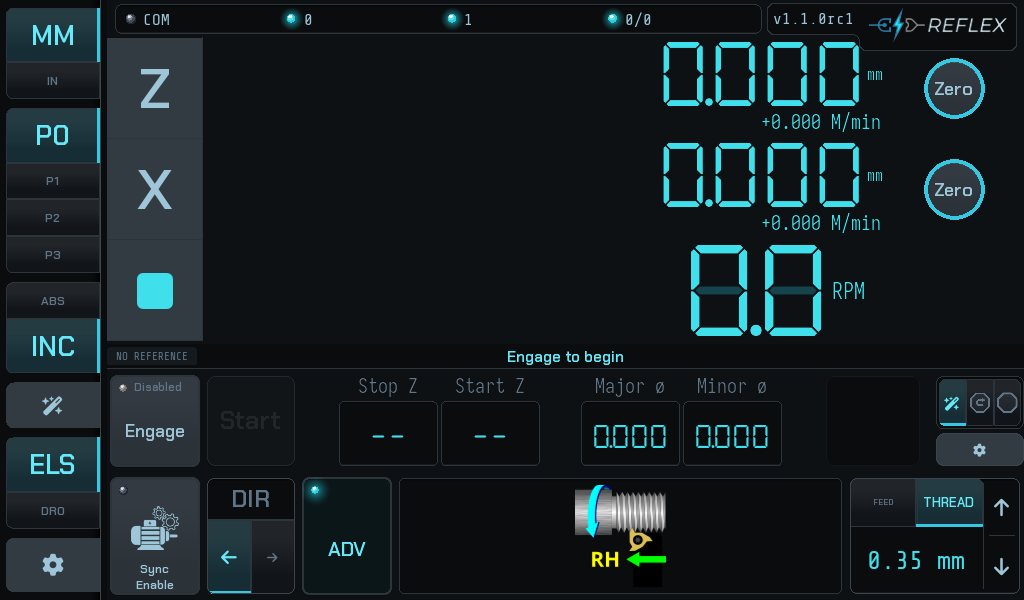
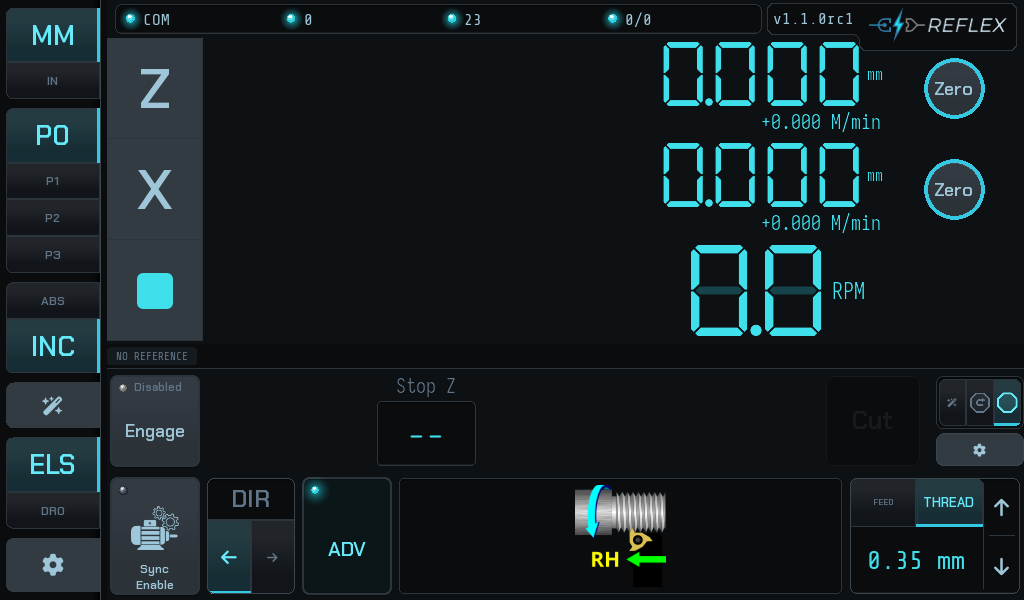
docs(readme): stop-only is the headline, and a walkthrough for each mode
Gate 2 item one. Every screenshot the project has shipped showed WIZARD
mode -- capture_readme_screenshots.py never set the mode flags and
enable_wizard defaults True -- while the machine this is developed on
runs stop-only. Stop-only is now the headline pair, and the other two
modes get sections instead of being the accidental default.

The caption under those images said they were "regenerated by CI, so
they reflect the current UI". No workflow has ever referenced that
script. The one sentence telling a reader the images were trustworthy is
why nobody checked them; it is gone, replaced by a note in the script
saying it must be run by hand.

The capture script now writes nine frames -- the stop-only pair in both
themes, stop+retract, and one per wizard step -- driven through the real
UI FSM triggers so every prompt and button label comes from UI_POLICY
rather than being typed into the README.

THE FIRST RUN OF THE WIZARD WALK WAS WRONG IN A WAY THE ASSERTIONS DID
NOT CATCH. The FSM walked its six states correctly and the action button
followed (Set/Set/Set/Set/Confirm/Cut), so every frame looked right --
but all six carried the instruction "Engage to begin", because
_apply_policy replaces a state's own prompt while the domain FSM is
disengaged (ui_controller.py:1004). The wizard's six actual prompts, the
entire content of the sequence, never appeared. The script now asserts
the rendered instruction against UI_POLICY, which is the check that
[…]

diff --git a/ui/scripts/capture_readme_screenshots.py b/ui/scripts/capture_readme_screenshots.py
@@ -1,22 +1,34 @@
-"""Capture README screenshots of the home screen in ELS mode (advanced bar
-expanded) for each UI theme, with no hardware connected.
+"""Capture the README's screenshots: the home screen in each operator mode,
+and a frame per step of the wizard.
 
-Renders at the fixed target-hardware resolution (1024x600) and writes one PNG
-per theme, composited over THAT THEME'S background colour (``export_to_png``
-produces a transparent background because it exports the root widget, not the
-Window -- and the app's backdrop lives on ``Window.canvas.before``, so it is
-never in the export).
+STOP-ONLY IS THE HEADLINE, and getting that wrong is why this file was
+rewritten on 2026-08-30. `ElsAdvancedBar.enable_wizard` and `enable_retract`
+both default True, this script never set them, and so every screenshot the
+project has ever shipped showed WIZARD mode -- complete with a Start button,
+Start Z / Major o / Minor o fields and an "Engage to begin" instruction that
+the machine's own operator never sees. Every preview harness under previews/
+deliberately switches to stop-only and says why; the one script whose output
+is the project's public face did not.
 
-Run locally:
-    DISPLAY=:0 SDL_AUDIODRIVER=dummy uv run python scripts/capture_readme_screenshots.py
+Renders at the fixed target-hardware resolution (1024x600) and composites each
+PNG over THAT THEME'S background colour (``export_to_png`` produces a
+transparent background because it exports the root widget, not the Window --
+and the app's backdrop lives on ``Window.canvas.before``, so it is never in the
+export).
 
-Headless (as CI does):
-    xvfb-run -a -s "-screen 0 1024x600x24" SDL_AUDIODRIVER=dummy \
-        uv run python scripts/capture_readme_screenshots.py
+Run (WSL):
+    cd ui && OUT_DIR=docs/screenshots SDL_AUDIODRIVER=dummy KIVY_NO_ARGS=1 \
+        xvfb-run -a -s "-screen 0 1024x600x24" \
+        ./.venv/bin/python scripts/capture_readme_screenshots.py
+
+NOTHING REGENERATES THESE AUTOMATICALLY. The README claimed CI did until
+2026-08-30; no workflow has ever referenced this script. Run it by hand after
+a UI change that alters the home screen, and commit what it writes.
 
 Output files (in OUT_DIR, default current directory):
-    home_els_light.png
-    home_els_dark.png
+    home_els_dark.png / home_els_light.png    stop-only -- the headline pair
+    home_els_stopretract.png                  stop + retract
+    wizard_1_stop_z.png ... wizard_6_ready.png  one frame per wizard step
 """
 import os
 import tempfile
@@ -49,12 +61,17 @@ from kivy.clock import Clock  # noqa: E402
 from PIL import Image  # noqa: E402
 
 from reflex.app import MainApp  # noqa: E402
+from reflex.fsms.ui_controller import UI_POLICY  # noqa: E402
 
 OUT_DIR = os.environ.get("OUT_DIR", ".")
 THEMES = ("light", "dark")
 MODE_ELS = 2
 AXIS_NAMES = ("Z", "X", "S")  # representative lathe axes (S = spindle) for the showcase
 IDLE_TICKS = 6  # frames to flush before each export (texture/colors must settle)
+TARGET_SIZE = [1024, 600]
+
+FAILED = []
+WROTE = []
 
 app = MainApp()
 
@@ -78,23 +95,156 @@ def _composite_over_theme_bg(path, rgba):
     Image.alpha_composite(bg, img).convert("RGB").save(path)
 
 
+def _settle():
+    for _ in range(IDLE_TICKS):
+        EventLoop.idle()
+
+
+def _bar():
+    return app.manager.get_screen("home").els_bar.ids.get("advanced_bar") \
+        or _find(lambda w: type(w).__name__ == "ElsAdvancedBar")
+
+
+def _find(pred, root=None):
+    root = root or app.root
+    if pred(root):
+        return root
+    for child in root.children:
+        got = _find(pred, child)
+        if got is not None:
+            return got
+    return None
+
+
+def _shot(name):
+    out = os.path.join(OUT_DIR, f"{name}.png")
+    _settle()
+    # First export under-renders (only one tile); export twice.
+    app.root.export_to_png(out)
+    app.root.export_to_png(out)
+    assert list(app.root.size) == TARGET_SIZE, (
+        f"{name}: rendered at {list(app.root.size)}, not the machine's "
+        f"{TARGET_SIZE}")
+    _composite_over_theme_bg(out, app.theme.background)
+    WROTE.append(out)
+    print("WROTE", out)
+
+
+def _set_mode(bar, wizard, retract):
+    """Set an operator mode and DEMAND that it took.
+
+    The flags propagate to ElsUiController through ElsAdvancedBar's setters, so
+    a silently-ignored write here would mislabel every frame below -- which is
+    exactly what happened to previews/preview_takeup_banner.py, whose
+    stop-only pair was captured in wizard mode for as long as it existed.
+    """
+    bar.enable_wizard = wizard
+    bar.enable_retract = retract
+    _settle()
+    uic = app.els_uic
+    assert bar.enable_wizard is wizard and bar.enable_retract is retract, (
+        f"bar did not take wizard={wizard} retract={retract}")
+    assert uic.wizard_enabled is wizard and uic.retract_enabled is retract, (
+        f"the controller disagrees with the bar: wizard="
+        f"{uic.wizard_enabled} retract={uic.retract_enabled}")
+    print(f"  mode: wizard={wizard} retract={retract} "
+          f"(bar h={round(bar.height)})")
+
+
+# One frame per wizard step. The captions are not written here: the third
+# element is the UI_STATE_POLICY state whose OWN instruction_text is asserted
+# against the screen, so the README cannot describe a step the app does not.
+WIZARD_STEPS = [
+    ("wizard_1_stop_z",     "set_stop_z",     "stop_z_valid"),
+    ("wizard_2_retract_z",  "set_retract_z",  "retract_z_valid"),
+    ("wizard_3_start_dia",  "set_start_dia",  "start_dia_valid"),
+    ("wizard_4_stop_dia",   "set_stop_dia",   "stop_dia_valid"),
+    ("wizard_5_confirm",    "confirm",        None),
+    ("wizard_6_ready",      "in_cycle.waiting_to_cut", None),
+]
+
+
+def _capture_wizard(bar):
+    """Walk the wizard and photograph each step.
+
+    Driven through the real UI FSM triggers, with each step's validity flag set
+    the way committing a value would set it -- so the instruction text and the
+    action button in every frame are produced by production code rather than
+    posed.
+    """
+    uic = app.els_uic
+    _set_mode(bar, wizard=True, retract=True)
+
+    # ENGAGED, or every frame says "Engage to begin". _apply_policy overrides
+    # the state's own instruction text while the domain FSM is disabled
+    # (ui_controller.py:1004), so without this the six frames below carry six
+    # copies of one sentence -- the wizard's actual prompts, the whole point of
+    # the sequence, never appear. Caught by reading the captured text, not the
+    # captured state: the ACTION BUTTON followed the FSM correctly the whole
+    # time, so the frames looked like they were working.
+    uic.engaged = True
+
+    fsm = uic._ui_fsm
+    fsm.start()
+    _settle()
+
+    for name, want_state, gate in WIZARD_STEPS:
+        assert fsm.state == want_state, (
+            f"{name}: wizard is in {fsm.state!r}, not {want_state!r} -- the "
+            f"frame would carry another step's instruction under this "
+            f"filename")
+        # THE STATE IS NOT THE SCREEN. _apply_policy can replace a state's
+        # instruction with a global one (not engaged, alarm), and it did:
+        # every frame in the first run of this sequence read "Engage to
+        # begin" while the FSM walked the six states correctly underneath.
+        want_text = UI_POLICY[want_state]["instruction_text"]
+        assert uic.instruction_text == want_text, (
+            f"{name}: screen reads {uic.instruction_text!r}, but "
+            f"{want_state!r} prompts {want_text!r}. Something is overriding "
+            f"the step's own instruction and this frame does not show the "
+            f"wizard.")
+        print(f"  [{want_state}] button={uic.action_button_text!r} "
+              f"instruction={uic.instruction_text!r}")
+        _shot(name)
+        if gate is not None:
+            # What committing the value does. Set here rather than driven
+            # through the axis so the walk does not depend on fabricated
+            # scale positions.
+            setattr(uic, gate, True)
+        if want_state != WIZARD_STEPS[-1][1]:
+            fsm.action()
+            _settle()
+
+
 def _capture(_dt):
     os.makedirs(OUT_DIR, exist_ok=True)
     try:
+        bar = _bar()
+        assert bar is not None, (
+            "ElsAdvancedBar is not mounted; every mode below would be "
+            "whatever a fresh config booted into. Raise the delay.")
+
+        # ── The headline pair: STOP-ONLY, the mode the machine is run in.
+        _set_mode(bar, wizard=False, retract=False)
         for theme in THEMES:
             app.formats.theme = theme
-            out = os.path.join(OUT_DIR, f"home_els_{theme}.png")
-            for _ in range(IDLE_TICKS):
-                EventLoop.idle()
-            # First export under-renders (only one tile); export twice.
-            app.root.export_to_png(out)
-            app.root.export_to_png(out)
-            _composite_over_theme_bg(out, app.theme.background)
-            print("WROTE", out, "root size", app.root.size)
+            _settle()
+            _shot(f"home_els_{theme}")
+
+        # ── Stop + retract, and the wizard walk. Dark only: these illustrate
+        # controls and workflow, and a second theme of each would double the
+        # README's images without adding anything.
+        app.formats.theme = "dark"
+        _settle()
+        _set_mode(bar, wizard=False, retract=True)
+        _shot("home_els_stopretract")
+
+        _capture_wizard(bar)
     except Exception as e:  # noqa: BLE001 - capture script, want the full traceback
         import traceback
         traceback.print_exc()
         print("CAPTURE FAILED", e)
+        FAILED.append(e)
     app.stop()
 
 
@@ -117,9 +267,23 @@ def _arm(_dt):
     app.set_mode(MODE_ELS)
     app.manager.get_screen("home").els_bar.enable_advanced = True
     # Mode swap is deferred via Clock (see HomePage.change_mode); give it time
-    # for the ELS layout to mount before capturing.
+    # for the ELS layout to mount before capturing. The modes themselves are
+    # set INSIDE _capture, after the bar exists -- setting them here would be
+    # silently dropped, which is the bug that made preview_takeup_banner.py
+    # photograph the wrong mode for its whole life.
     Clock.schedule_once(_capture, 1.5)
 
 
 Clock.schedule_once(_arm, 2.0)
 app.run()
+
+# A CAPTURE SCRIPT THAT WRITES FILES AND EXITS 0 IS NOT EVIDENCE IT WORKED.
+# The except above exists so the traceback survives Kivy's clock; it must not
+# also swallow the exit code.
+if FAILED:
+    raise SystemExit(f"capture_readme_screenshots failed: {FAILED[0]!r}")
+if len(WROTE) != 2 + 1 + len(WIZARD_STEPS):
+    raise SystemExit(
+        f"wrote {len(WROTE)} images, expected {2 + 1 + len(WIZARD_STEPS)}: "
+        f"{[os.path.basename(w) for w in WROTE]}")
+print(f"OK: {len(WROTE)} images")

diff --git a/README.md b/README.md
@@ -13,8 +13,8 @@ talking RS-485 Modbus RTU. One system, one repository.
 
 ## 📸 What it does
 
-Home screen in ELS mode with the advanced bar expanded (regenerated by CI, so
-they reflect the current UI):
+Home screen in ELS mode with the advanced bar expanded, in **stop-only** mode
+(see [Operator modes](#-operator-modes) below):
 
 | Dark | Light |
 |------|-------|
@@ -33,6 +33,65 @@ they reflect the current UI):
 The firmware owns everything real-time (encoders, step generation, the stop);
 the UI owns operator workflow, configuration, and display. The wire between
 them is a memory-mapped register contract guarded by `protocolVersion`.
+
+---
+
+## 🎛 Operator modes
+
+The advanced bar has three modes, and they are not difficulty levels — they are
+three different amounts of the job the controller takes over. All three cut the
+same thread; they differ in how much you set up first and how much you do by
+hand between passes.
+
+### Stop-only
+
+![Stop-only](ui/docs/screenshots/home_els_dark.png)
+
+One field: **Stop Z**. Set the shoulder, engage, press **Cut**, and the carriage
+feeds to the stop and holds. Everything else — backing the tool out, returning
+the carriage, taking the next depth of cut — is yours, exactly as on a manual
+lathe with a carriage stop.
+
+This is the mode with the least to get wrong, and it is what the author runs on
+his own machine. The controller still confirms the backlash take-up before every
+pass and refuses to start one it cannot confirm, so the protection that matters
+is not something you trade away by staying here.
+
+### Stop + retract
+
+![Stop and retract](ui/docs/screenshots/home_els_stopretract.png)
+
+Adds **Start Z** and an automatic retract. At the end of a pass the tool comes
+out and the carriage returns to the start position on its own, so the cycle is
+Cut → Retract → Cut rather than Cut → *four things by hand* → Cut.
+
+This is where the **phase re-sync** earns its keep: the controller re-derives
+thread phase from the Z scale between passes, so you are free to open the half
+nut and the next pass still lands in the same groove.
+
+### Wizard
+
+The guided setup. Instead of typing values into fields, you drive the machine to
+each position and press **Set**, and the bar tells you what it wants next. It
+collects the same four values the other modes use, then confirms before the
+first cut.
+
+| | | |
+|---|---|---|
+| ![Set stop Z](ui/docs/screenshots/wizard_1_stop_z.png) | ![Set start Z](ui/docs/screenshots/wizard_2_retract_z.png) | ![Set start diameter](ui/docs/screenshots/wizard_3_start_dia.png) |
+| **1. Stop Z** — run the carriage to the shoulder and press Set. This is the one value every mode needs. | **2. Start Z** — run back to where each pass should begin. The retract returns here. | **3. Start ø** — bring the tool to the work and press Set. The field being captured is outlined. |
+| ![Set stop diameter](ui/docs/screenshots/wizard_4_stop_dia.png) | ![Confirm](ui/docs/screenshots/wizard_5_confirm.png) | ![Ready to cut](ui/docs/screenshots/wizard_6_ready.png) |
+| **4. Stop ø** — the finished diameter. Drive to it, or type it in. | **5. Confirm** — the one thing the controller cannot check for you is the half nut. It asks. | **6. Ready** — the button becomes **Cut**, and the cycle runs Cut → Retract → Cut. |
+
+The prompt above the fields is the wizard's whole interface: it names the next
+value, the field it will land in is outlined, and the action button reads what
+pressing it will do. Nothing is captured until you press Set, so you can drive
+past a position and come back.
+
+**On choosing a mode.** The wizard is the most guided and puts the most
+machinery between you and the cut; stop-only is the least. Neither is safer than
+the other in the part that matters — the take-up confirmation, the electronic
+stop and the thread datum are the same code in all three.
 
 ---
 
